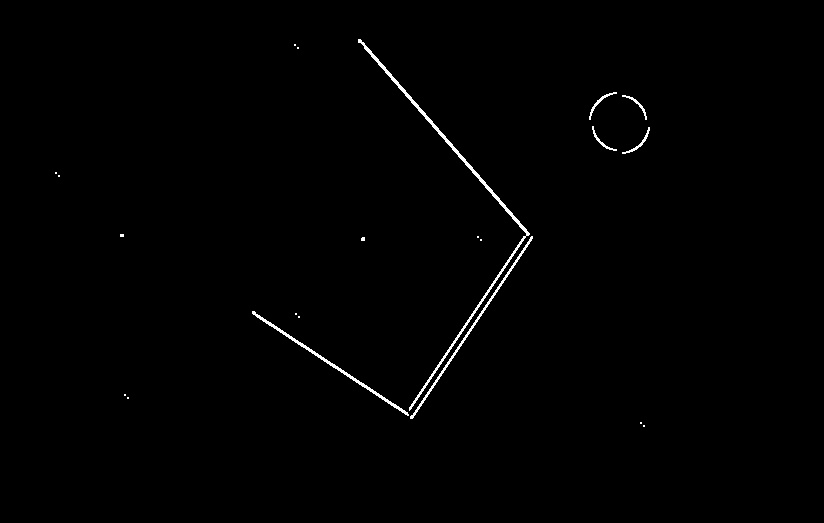
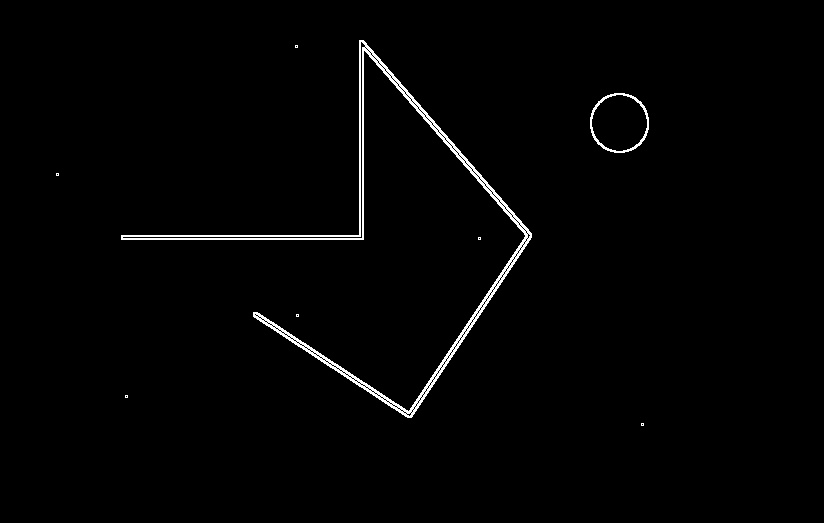
Detecção de descontinuidade

diff --git a/vc_Roberts.py b/vc_Roberts.py
@@ -9,8 +9,7 @@ def detectar(filename, limiar):
     #Importa imagem
     img = cv2.imread(filename, 0)
     rows, cols = img.shape
-    imgx = np.zeros((rows, cols))
-    imgy = np.zeros((rows, cols))
+    
     imgn = np.zeros((rows, cols))
     
     
@@ -29,20 +28,12 @@ def detectar(filename, limiar):
     for i in range(fator, rows-fator):
         for j in range(fator, cols-fator):
             soma = 0
-            for f in range(2):
-                for n in range(2):
-                    soma = soma + (img[i+f-fator,j-fator+n]*mascarax[f,n])
-            imgx[i,j] = soma
-            
-    for i in range(fator, rows-fator):
-        for j in range(fator, cols-fator):
             soma1 = 0
             for f in range(2):
                 for n in range(2):
-                    soma1 = soma1 + (imgx[i+f-fator,j-fator+n]*mascaray[f,n])
-            
-   
-            if(soma1<limiar):
+                    soma = soma + (img[i+f-fator,j-fator+n]*mascarax[f,n])
+                    soma1 = soma1 + (img[i+f-fator,j-fator+n]*mascaray[f,n])
+            if(abs(soma)+abs(soma1)<limiar):
                 imgn[i,j]=0
             else:
                 imgn[i,j]=255

diff --git a/vc_Sobel.py b/vc_Sobel.py
@@ -13,8 +13,8 @@ def detectar(filename, limiar):
     imgn = np.zeros((rows, cols))
     
     
-    mascarax = np.matrix('1 1 1; 0 0 0; -1 -1 -1')
-    mascaray = np.matrix('-1 0 1;-1 0 1; -1 0 1')
+    mascarax = np.matrix('-1 0 1; -2 0 2; -1 0 1')
+    mascaray = np.matrix('-1 -2 -1;0 0 0; 1 2 1')
     
     
     
@@ -37,13 +37,16 @@ def detectar(filename, limiar):
                 imgn[i,j]=0
             else:
                 imgn[i,j]=255
+           
+   
+   
     
 
 
     name, extension = os.path.splitext(filename)
-    newname = "{name}-Prewitt{ext}".format(name=name,ext=extension)
+    newname = "{name}-Sobel{ext}".format(name=name,ext=extension)
     cv2.imwrite(newname, imgn)
-    cv2.imshow('Prewitt',imgn)
+    cv2.imshow('Sobel',imgn)
     cv2.waitKey(0)
     cv2.destroyAllWindows()
      

diff --git a/vcRun.py b/vcRun.py
@@ -34,10 +34,11 @@ import vc_Prewitt
 import vc_detectPontos
 import vc_detectRetas
 import vc_Roberts
+import vc_Sobel
 # Load an color image in grayscale
 
 if __name__ == "__main__":
-    filename = "imgs/lenna.jpg"
+    filename = "imgs/pedro.jpg"
     filenamesuave = "imgs/pedro-FiltroMedio5.jpg"
     filename2 = "imgs/cat.jpg"
     fator = [4,8] #fator de amostragem
@@ -62,5 +63,6 @@ if __name__ == "__main__":
     newname = "{name}-ChannelSHift{ext}".format(name=name, ext=extension)
     cv2.imwrite(newname, img)"""
 
-    #vc_Prewitt.detectar(vc_gaussian.aplicarFiltro(filename), 40)
-    vc_Roberts.detectar('imgs/lenna-FiltroGaussiano.jpg', 8)
+    #vc_Prewitt.detectar(filename, 80)
+    #vc_Sobel.detectar(filename,80)
+    vc_Roberts.detectar(filenamesuave, 10)
